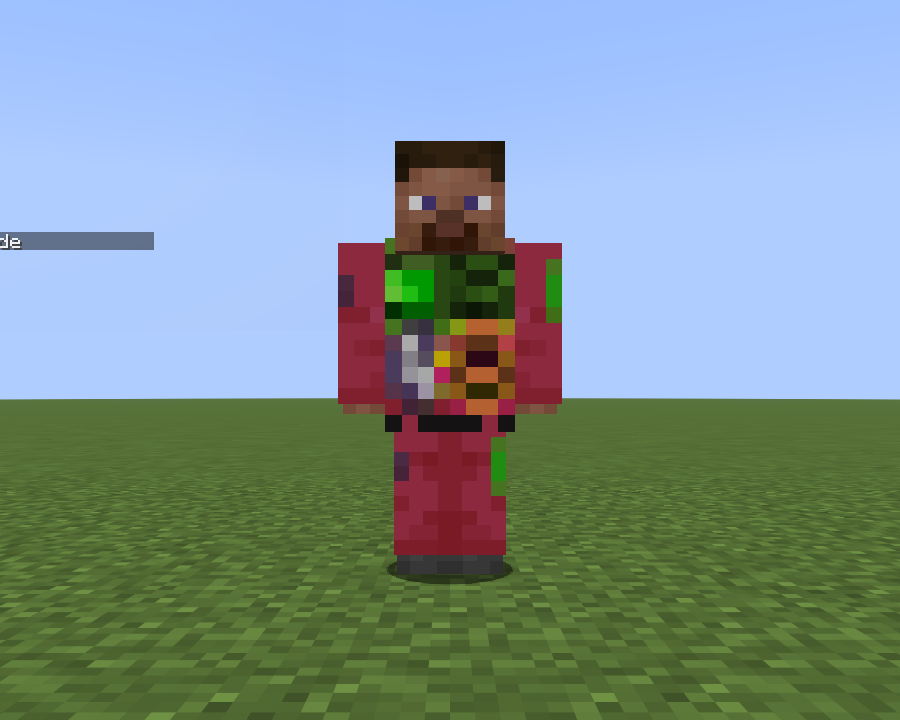
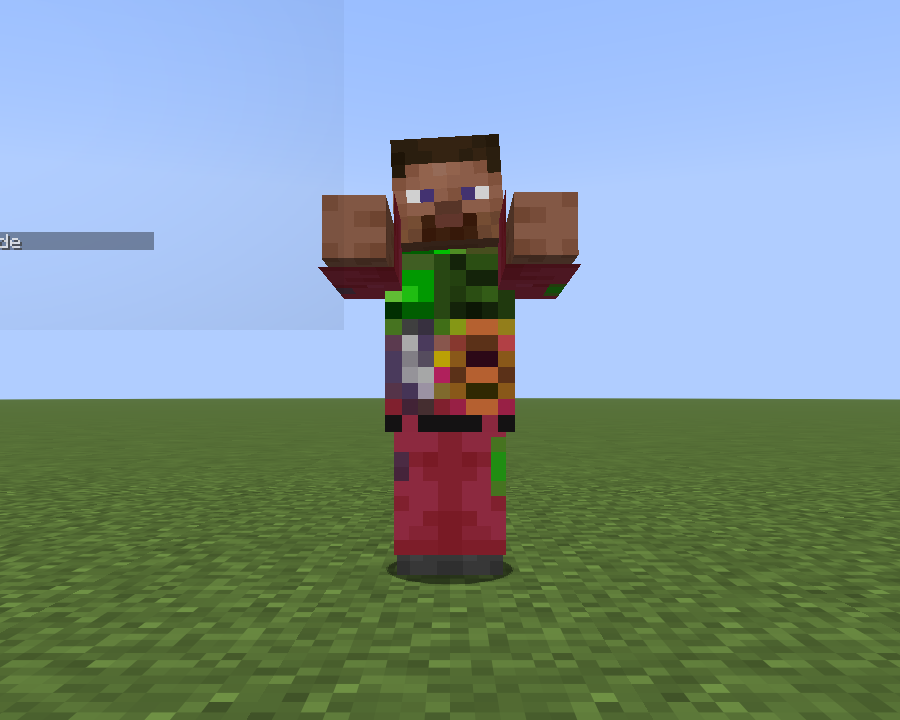
ovvar: the gesture screenshots show a gesture
The first frames had the stand-in dressed and standing still, whatever the gesture. Danse
animates through bil, whose bone updates run on a JVM-wide executor that bil shuts down on
SERVER_STOPPING; a real server is one server per JVM, but the client test harness starts one
in-process server per test, and the plain client test ran first — so the gesture test's
server had no executor and its stand-in never moved. The gesture test now runs first, and
the order in the test mod's fabric.mod.json is documented as load-bearing.

The gesture is zombie: both arms straight out from 0.8 s to 4.4 s, so the frame at three
seconds is unmistakably a gesture and the sleeves' patches are in full view. grow, the first
choice, is a slow scale-up that reads as standing still. docs/danse/ re-shot.

Changed region(s): [[0.3422, 0.1833, 0.6533, 0.5806], [0.0, 0.3361, 0.0311, 0.3667]]

diff --git a/mods/ovvar/src/gametest/java/metacraft/ovvar/clienttest/OvvarDanseClientTests.java b/mods/ovvar/src/gametest/java/metacraft/ovvar/clienttest/OvvarDanseClientTests.java
@@ -48,15 +48,24 @@ import java.util.Properties;
  *
  * <p>It returns at once when Danse is not loaded, so an ovvar checkout without the dev jar still
  * runs its client tests.
+ *
+ * <p><b>It must run before {@link OvvarClientTests}</b> — the entrypoint order in the test mod's
+ * {@code fabric.mod.json}. Danse animates through bil, whose bone updates run on a JVM-wide executor
+ * that bil shuts down on {@code SERVER_STOPPING}. One server per JVM on a real server, so it never
+ * matters there; here every test starts its own in-process server, and on any server after the
+ * first the stand-in spawns, dresses and then holds still for the whole gesture.
  */
 public final class OvvarDanseClientTests implements FabricClientGameTest {
 
 	/**
-	 * The gesture. {@code grow} is eleven seconds and plays once (so it ends, which the last
-	 * screenshot needs) and keeps the figure on the ground in front of the camera — {@code ascend},
-	 * the longest, lifts it out of frame.
+	 * The gesture. {@code zombie} plays once (so it ends, which the last screenshot needs), keeps
+	 * the figure on the ground in front of the camera, and holds both arms straight out from 0.8 s
+	 * to 4.4 s of its 5.25 — so the frame at three seconds is unmistakably a gesture, sleeves and
+	 * their patches in full view. ({@code grow}, the first choice, is a slow scale-up that looks
+	 * like standing still at that moment.)
 	 */
-	private static final String GESTURE = "grow";
+	private static final String GESTURE = "zombie";
+	private static final int GESTURE_TICKS = 105;   // 5.25 s
 
 	/**
 	 * Can Danse start a gesture in this JVM at all?
@@ -148,13 +157,13 @@ public final class OvvarDanseClientTests implements FabricClientGameTest {
 				// stack trace.
 				server.runOnServer(mc -> de.tomalbrc.danse.GestureController.onStart(
 						mc.getPlayerList().getPlayers().getFirst(), GESTURE));
-				ctx.waitTicks(60);            // the camera swings out behind the stand-in and settles
+				ctx.waitTicks(60);            // the camera swings out and settles; zombie's arms are out from 0.8 s
 				conn.waitForClientboundPackets();
 
 				Path mid = ctx.takeScreenshot(TestScreenshotOptions.of(stage).withSize(1920, 1080));
 
-				// Let the gesture finish (grow is 11 s ≈ 220 ticks) and look at the real player again.
-				ctx.waitTicks(220);
+				// Let the gesture finish and look at the real player again.
+				ctx.waitTicks(GESTURE_TICKS + 40 - 60);
 				ctx.runOnClient(client -> client.options.setCameraType(CameraType.THIRD_PERSON_FRONT));
 				conn.waitForClientboundPackets();
 				ctx.waitTicks(40);

diff --git a/mods/ovvar/README.md b/mods/ovvar/README.md
@@ -794,8 +794,10 @@ tests on a dedicated server (`Run Tests.command`), which is where Danse works.
 
 **The screenshots.** `OvvarDanseClientTests` (`./gradlew :mods:ovvar:runClientGameTest`, and again
 under `JAVA_TOOL_OPTIONS=-Dovvar.danse.compat=false` for the "before" frame) dresses the Tester in a
-Data ovve with four chest patches, one per sleeve and one per leg, starts Danse's `grow` gesture and
-photographs the stand-in, then the player again once it has ended. `docs/danse/before.png` is the
+Data ovve with four chest patches, one per sleeve and one per leg, starts Danse's `zombie` gesture —
+both arms straight out for most of its five seconds, so the frame is unmistakably a gesture and the
+sleeves are in full view — and photographs the stand-in three seconds in, then the player again once
+it has ended. `docs/danse/before.png` is the
 stand-in with the compat layer off — bare, black, no ovve at all — `after.png` the same stand-in with
 it on, and `after_gesture_end.png` the player dressed again afterwards, leg patches included. The
 frames prove it with ITK's green and Data's yellow, not IT's lilac: that lilac is a one-pixel
@@ -815,6 +817,14 @@ that is the environment, and no gesture can start there at all — with or witho
 one line (those five entries under `"mixins"`), which is the one change made to `libs/danse-2.6.0+26.3.jar`
 (`libs/danse-LICENSE-NOTICE.txt` says how); on a dedicated server the two spellings behave the same.
 With an unpatched Danse the test prints why it is skipping instead of failing.
+
+**The gesture test runs first**, before `OvvarClientTests`, and the order in the test mod's
+`fabric.mod.json` is load-bearing. Danse animates through bil (blockbench-import-library), whose bone
+updates run on a JVM-wide executor that bil shuts down on `SERVER_STOPPING`; a real server is one
+server per JVM so it never matters, but the client test harness starts one in-process server per
+test, and any server after the first gets a stand-in that spawns, dresses and holds still for the
+whole gesture — which is what the first round of screenshots showed. First in the list, the gesture
+test has the executor to itself.
 
 ## The guidebook
 
